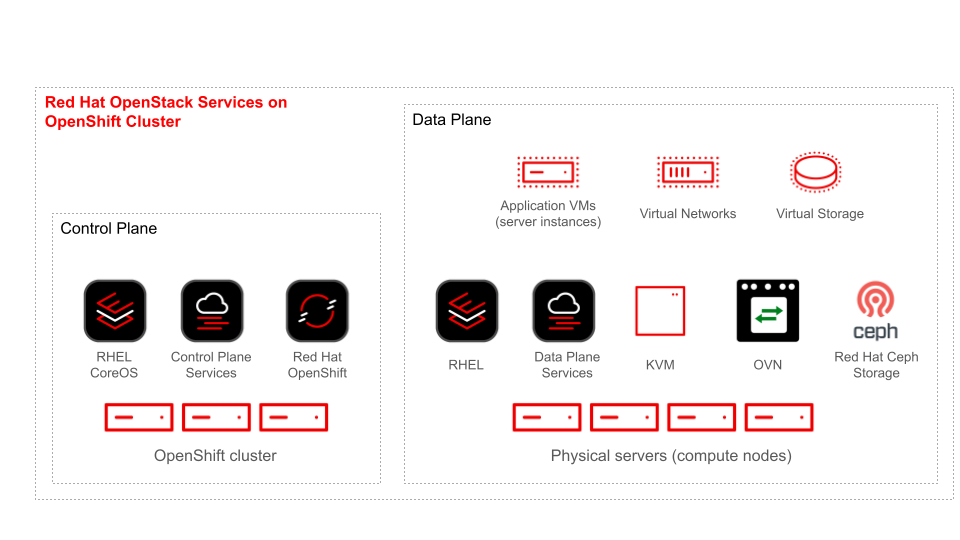
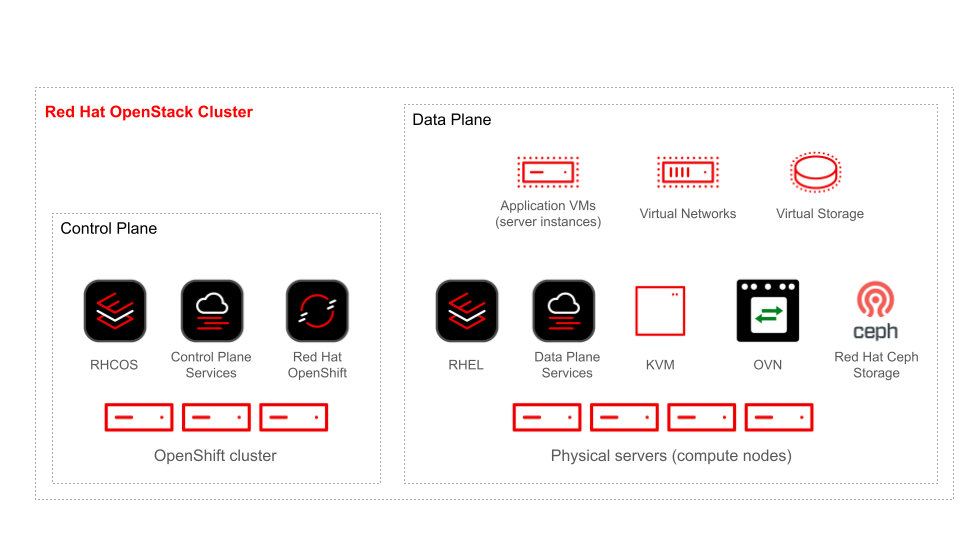
deploy: b62ea32928b1d712dc7a0103a722c4fbe2c06950

Changed region(s): [[0.0312, 0.1778, 0.3125, 0.237], [0.0938, 0.6519, 0.1562, 0.7111]]

diff --git a/rhoso-intro/1/ch1-intro/s3-operations-lecture.html b/rhoso-intro/1/ch1-intro/s3-operations-lecture.html
@@ -162,23 +162,22 @@
 </dd>
 </dl>
 </div>
-<div class="paragraph">
-<p>[ Figure of a simplified RHOSO cluster and the two personas. Arrows to the things they manage. ]</p>
+<div class="imageblock">
+<div class="content">
+<img src="_images/s3-operations-lecture-fig-1.png" alt="s3 operations lecture fig 1">
+</div>
 </div>
 <div class="paragraph">
 <p>If you are new to OpenStack it&#8217;s recommended that you gain experience as an OpenStack Operator before taking responsibility of OpenStack Administrator tasks.</p>
 </div>
 <div class="paragraph">
-<p>Depending on the size of an organization, OpenStack users can either perform other IT roles by themselves or work closely with IT professionals from other roles. For example, an OpenStack Operator may also be the System Administrator who manages the RHEL operating system inside a server instance.</p>
+<p>Depending on the size of an oNOTE: rganization, OpenStack users can either perform other IT roles by themselves or work closely with IT professionals from other roles. For example, an OpenStack Operator may also be the System Administrator who manages the RHEL operating system inside a server instance.</p>
 </div>
 <div class="paragraph">
 <p>As a counter-example, an OpenStack Operator may delegate the server instance operating system configuration to a Database Administrator who is responsible for the database server running inside that server instance. OpenStack Operators usually work closely with DevOps Engineers, Email Administrators, ERP Administrators, and other IT roles focused on application development or application management.</p>
 </div>
 <div class="paragraph">
 <p>Similarly, an OpenStack Administrator may also be an OpenShift Administrator. And as a counter-example, an OpenStack Administrator may work closely with a RHEL Systems Administration team responsible for all servers in the organizaiton, including compute nodes of an OpenStack cluster. OpenStack Administrators usually work closely with Storage Administrators, Network Administrators, and other IT Operations roles focused on infrastructure.</p>
-</div>
-<div class="paragraph">
-<p>[ Figure of simplified RHOSO and related IT roles ]</p>
 </div>
 <div class="paragraph">
 <p>On smaller organizations, the same team perform both OpenStack Operator and Administrator roles. On larger organizations, multiple teams of OpenStack Operators might be responsible for different workloads running on the same cluster. Conversely, a larger OpenStack Administration team migh split into subteams who manage different Az or cells of a single cluster.</p>
@@ -192,22 +191,44 @@
 <h2 id="_tools_and_skills_of_openstack_operators_and_administrators"><a class="anchor" href="#_tools_and_skills_of_openstack_operators_and_administrators"></a>Tools and Skills of OpenStack Operators and Administrators</h2>
 <div class="sectionbody">
 <div class="paragraph">
-<p>OpenStack Operators focus on OpenStack API resources and typically use the <strong>OpenStack client</strong>, which is a CLI application, and the web interface from <strong>OpenStack Horizon</strong>. Those tools, and all other tools available from the open soruce community and IT vendor rely on the same OpenStack APIs. There are no "backdoors" nor alernative "native" ways of operating OpenStack clusters.</p>
+<p>OpenStack Operators focus on OpenStack API resources and typically use the <strong>OpenStack client</strong>, which is a CLI application, and the web interface from <strong>OpenStack Horizon</strong>. Those tools, and all other tools available from the open source community or IT vendor that manage OpenStack clusters and workloads, rely on the same OpenStack APIs. There are no "backdoors", no "native" nor "low-level" ways of operating OpenStack clusters.</p>
+</div>
+<div class="imageblock">
+<div class="content">
+<img src="_images/s3-operations-lecture-fig-2.png" alt="s3 operations lecture fig 2">
+</div>
+</div>
+<div class="admonitionblock note">
+<table>
+<tr>
+<td class="icon">
+<i class="fa icon-note" title="Note"></i>
+</td>
+<td class="content">
+The OpenStack cluster diagrams, from now on, will ommit the OpenShift cluster nodes, and replace them with an icon which represents the OpenShift services. This makes the diagrams less busy and reinforces the fact that OpenStack Operators have no visibility of the OpenShift cluster which runs their OpenStack clusters. Also, it is consistent with the viewpoint that OpenStack Administrators are not OpenShift Administrators and they manage OpenStack services as any other OpenShift Operator would manage their application.
+</td>
+</tr>
+</table>
 </div>
 <div class="paragraph">
-<p>[ Figure or simplificed RHOSO + personas and tools/API endpoints ]</p>
+<p>OpenStack Operators gradually grow into OpenStack Administrators because they can perform, using OpenStack API resources, tasks that impact multiple workloads and even entire clusters. Then they start requiring direct access to configure and manage OpenStack control planes, that is, to the OpenStack containers running on OpenShift, and to configure and manage compute nodes using Ansible playbooks managed by the OpenStack control plane. Occasionally, OpenStack Administrators can open SSH sessions directly into compute nodes, for troubleshooting purposes, but they are discouraged to make manual configurations to those servers.</p>
 </div>
 <div class="paragraph">
-<p>OpenStack Operators gradually grow into OpenStack Administrators because they can perform, using OpenStack API resources, tasks that impact multiple workloads and even entire clusters. Then they start requiring direct access to configure and manage OpenStack control planes, that is, to containers running on OpenShift, and to configure and manage compute nodes, which could be done the traditional Linux way using SSH sessions but is best performed using Ansible playbooks managed by the OpenStack cluster itself.</p>
+<p>OpenStack Administrators have a split focus among OpenStack APIs, Kubernetes APIs, Linux, and Ansible. They perform some tasks using the OpenStack client and Horizon, but for other tasks they must use the OpenShift tools. And, because an OpenStack control plane uses Ansible playbooks to manage OpenStack compute nodes running RHEL, OpenStack Administrators need skills of RHEL system administration using Ansible.</p>
+</div>
+<div class="imageblock">
+<div class="content">
+<img src="_images/s3-operations-lecture-fig-3.png" alt="s3 operations lecture fig 3">
+</div>
 </div>
 <div class="paragraph">
-<p>OpenStack Administrators have a split focus among OpenStack APIs, Kubernetes APIs, and Ansible. They perform some tasks using the OpenStack client and Horizon, but for other tasks they must use the OpenShift Web Console and CLI. And, because an OpenStack control plane uses Ansible playbooks to manage OpenStack compute nodes running RHEL, OpenStack Administrators need skills of RHEL system administration using Ansible.</p>
+<p>For simplicity, previous figure the tools OpenStack Administrators use to interact with Kubernetes APIs, such as the OpenShift CLI and the OpenShift wbe console.</p>
 </div>
 <div class="paragraph">
 <p>Notice that OpenStack Operators are shielded from the fact that an OpenStack cluster runs its control plane on OpenShift. They do not require direct access to OpenShift. They are able to work around application performance and availability issues using OpenStack APIs, for example by migrating a server instance to a different compute node, or by connecting a server instance to a different virtual network. All the information they need to perform they job is available from OpenStack APIs, and all actions they must perform are also. They are concerned only with the user-facing services of OpenStack.</p>
 </div>
 <div class="paragraph">
-<p>OpenStack Administrators, on the other side, absolutely require skills about OpenShift, containers, and Kubernetes. They need those skills to peek inside OpenStack services and manage OpenStack infrastructure that is not user-facing and not acessible using OpenStack APIs.</p>
+<p>OpenStack Administrators, on the other side, absolutely require skills about OpenShift, containers, and Kubernetes. They need those skills to troubleshoot and configure OpenStack services and also to manage OpenStack infrastructure services that are not user-facing and not acessible using OpenStack APIs.</p>
 </div>
 </div>
 </div>

diff --git a/rhoso-intro/1/ch1-intro/s1-rhoso-lecture.html b/rhoso-intro/1/ch1-intro/s1-rhoso-lecture.html
@@ -205,7 +205,7 @@
 <p>The <a href="https://www.redhat.com/en/topics/virtualization/what-is-KVM"><strong>KVM</strong></a> hypervisor with the <a href="https://www.qemu.org/"><strong>Qemu</strong></a> emulation layer and the <a href="https://libvirt.org/"><strong>libvirt</strong></a> management API, all of them included with RHEL.</p>
 </li>
 <li>
-<p>The <a href="https://www.redhat.com/en/technologies/cloud-computing/openshift"><strong>Red Hat OpenShift</strong></a> application platform.</p>
+<p>The <a href="https://www.redhat.com/en/technologies/cloud-computing/openshift"><strong>Red Hat OpenShift</strong></a> application platform and its container-optimized operating system <a href="https://access.redhat.com/documentation/en-us/openshift_container_platform/4.14/html/architecture/architecture-rhcos">Red Hat Enterprise Linux CoreOS (RHCOS)</a>.</p>
 </li>
 <li>
 <p>The <a href="https://www.ovn.org/en/"><strong>Open Virtual Network (OVN)</strong></a> software-defined network layer.</p>
@@ -229,7 +229,7 @@
 </div>
 </div>
 <div class="sect1">
-<h2 id="_what_is_inside_an_openstack_cluster"><a class="anchor" href="#_what_is_inside_an_openstack_cluster"></a>What is inside an OpenStack Cluster</h2>
+<h2 id="_structure_of_an_openstack_cluster"><a class="anchor" href="#_structure_of_an_openstack_cluster"></a>Structure of an OpenStack Cluster</h2>
 <div class="sectionbody">
 <div class="paragraph">
 <p>An OpenStack cluster is composed of two parts:</p>
